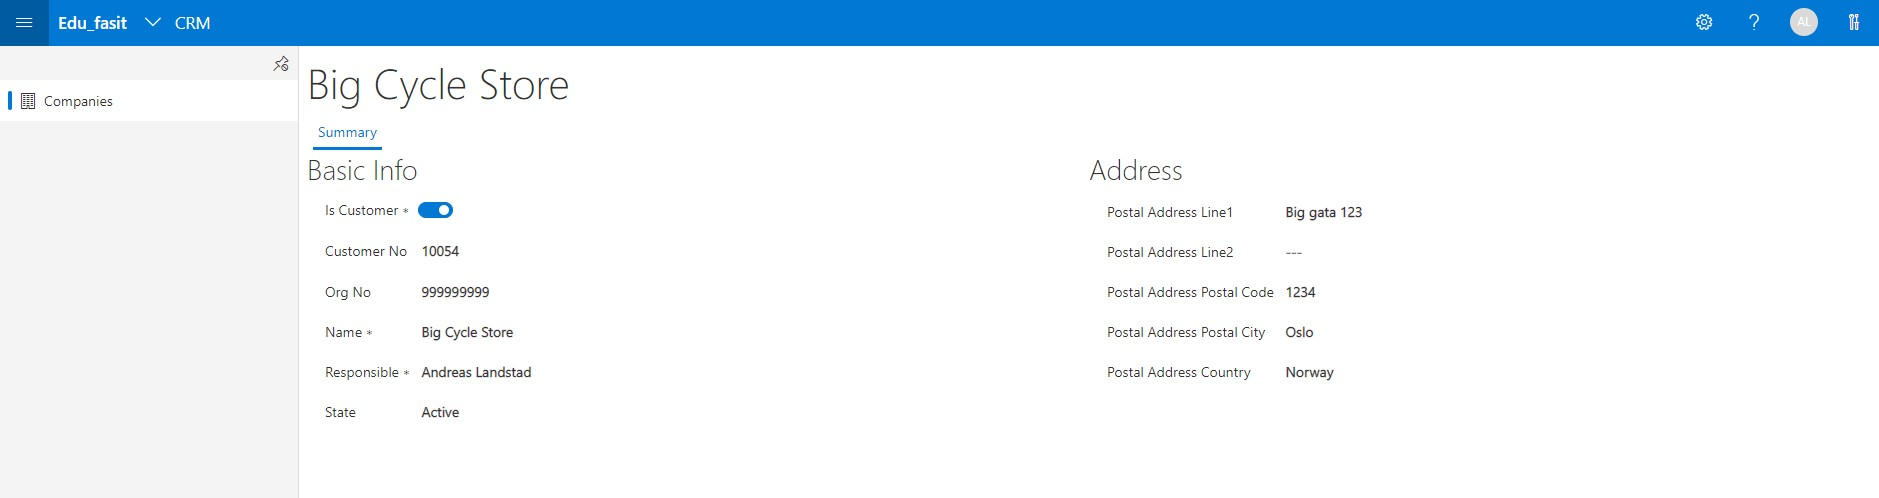
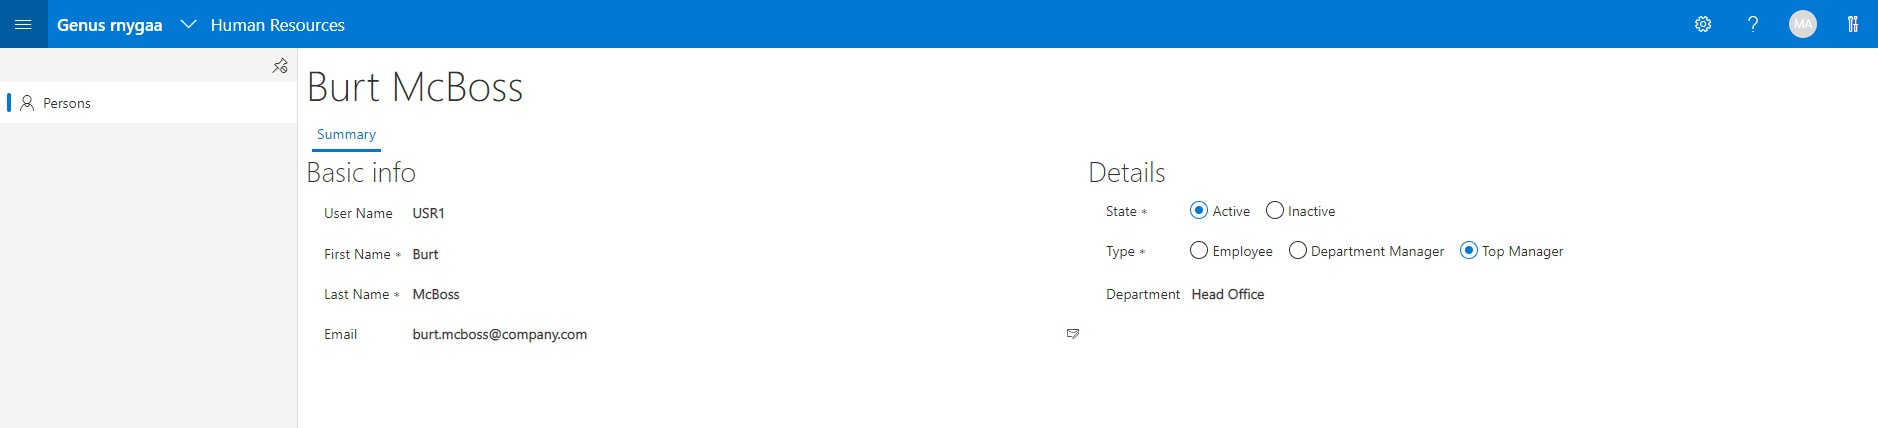
Free v1.3

diff --git a/free/exercise-02.md b/free/exercise-02.md
@@ -59,7 +59,7 @@ In this exercise, you will make a simple web interface for Human Resources Manag
 4. Open the Persons view. Open the Control View, by toggling the button up to the left (green button on the figure below), or "Ctrl+Shift+L". Here you can navigate the different levels of your page. You can use Esc to navigate to the level above, just like in a desktop form. Go to the "Table" level.
 5. In the Table level, Change the On Activate Interaction to "Navigate to Person Form" (you might need to close and open the view if the action is not visible). Under Data Exchange, select Person in the Data Column of the "Task: Person" row.  
 ![oppg02fig7.JPG](media/oppg02fig7.JPG)
-When you activate a row in the View, it will now send the Data Set from the context to the Client Action. The Client Action will navigate to the Company form, transfering the Data Set further. See the results in the browser.
+When you activate a row in the View, it will now send the Data Set from the context to the Client Action. The Client Action will navigate to the Person form, transfering the Data Set further. See the results in the browser.
 ![oppg02fig8.JPG](media/oppg02fig8.JPG)
 
   
@@ -70,13 +70,13 @@ When you activate a row in the View, it will now send the Data Set from the cont
 2. Pick the "Left/right split" Viewpoint Layout. Go to settings and change the title to "Summary".
 3. Go to the form tab and add relavant data fields by dragging fields from the data source into the left or the right Viewport Area (you can also use double-click). By default, the Input Field control will be selected for text fields, and Dropdown for complex fields (such as Responsible), etc. If other controls are preferred, you can hover over the field to see which controls are available for the data type (for instance, "User Name" should be a display field, since it should not be changed). You can also select controls from the Controls tab of the Insert Content pane. A good way to organize the fields can be to put identifying fields on the left and other fields on the right. Add text controls with style "Heading 2" to make the page more readable. See figure below. Save the component.
 ![oppg02fig9.JPG](media/oppg02fig9.JPG)
-4. Open the Company form. Add a Tab Control under the text. Under pages, click on the "(no items)" to open the Pages dialog. Add an item and name it "Summary". Choose Target Tyoe "Component" and Target "Company Summary". Under Data filter, choose Transfer all --> Company. Save and check the results in the browser.
+4. Open the Person form. Add a Tab Control under the text. Under "Pages", click on the "(no items)" to open the Pages dialog. Add an item and name it "Summary". Choose Target Tyoe "Component" and Target "Person Summary". Under Data filter, choose Transfer all --> Person. Save and check the results in the browser.
 ![oppg02fig10.JPG](media/oppg02fig10.JPG)
 
 ####8. Create a Viewport that is mobile friendly
-*Phones are characterized by their narrow screen. A page that looks good on a PC screen, doesn't nessisarily look good on a phones. We use different Viewports to fix this, without having to make a completely new page.*
+*Phones are characterized by their narrow screen. A page that looks good on a PC screen, doesn't nessisarily look good on a phones. We use different Viewports to account for this, without having to make a completely new page.*
 
-1. Open the Company Summary Component. Go to the viewport tab, and add a new Viewport (not a new Viewport Area). Under breakpoint, select "Medium (< 640px)". Keep the suggested name "Phone", and click ok.
+1. Open the Person Summary Component. Go to the viewport tab, and add a new Viewport (not a new Viewport Area). Under breakpoint, select "Medium (< 640px)". Keep the suggested name "Phone", and click ok.
 2. In the phone Viewport, click on the "+"-button in the bottom of the screen to add a new row. Then click on the vertical "..." in the right column and delete that column. Select the top row by clicking on the left side near the "1 fr". Change the Hight Unit to "Fit to Content". Finally, drag the "right" Viewport Area to the new bottom row. The viewport port should now look like the figure below.
 ![oppg02fig11.JPG](media/oppg02fig11.JPG)
 
